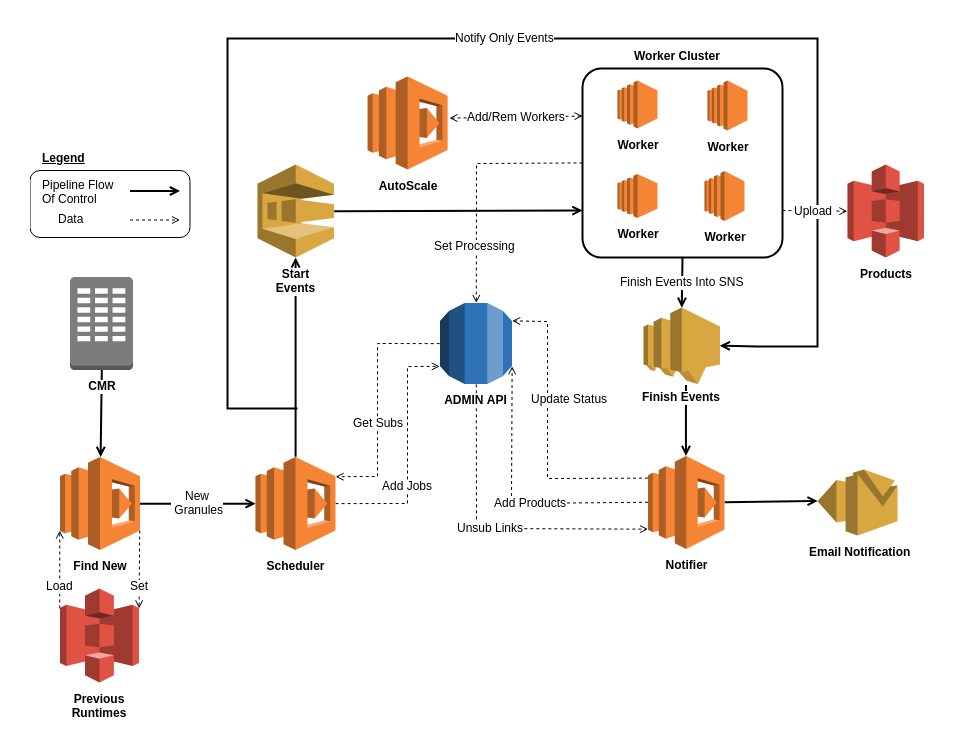
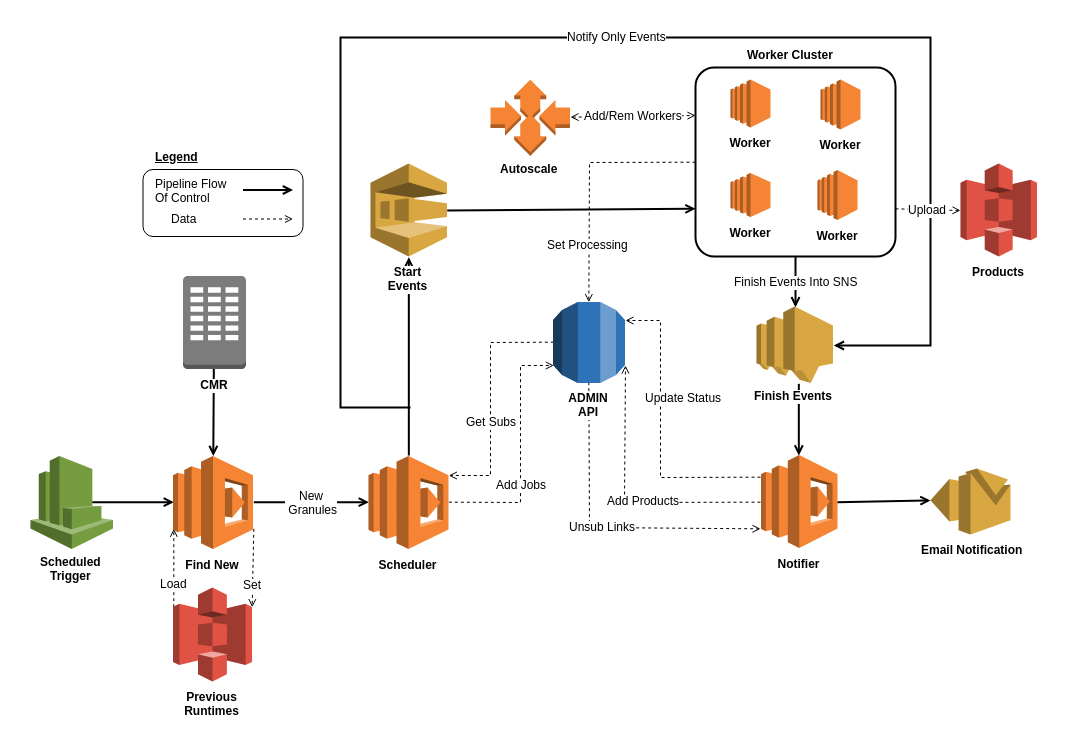
Fixing errors in docs build and updating diagrams

Changed region(s): [[0.0303, 0.0307, 0.9707, 0.984]]

diff --git a/docs/conf.py b/docs/conf.py
@@ -23,8 +23,8 @@ import sys
 sys.path.insert(0, os.path.abspath('../lambdas/find_new_granules/src'))
 sys.path.insert(0, os.path.abspath('../lambdas/scheduler/src'))
 sys.path.insert(0, os.path.abspath('../lambdas/send_email/src'))
-sys.path.insert(0, os.path.abspath('../lambdas/setup_db/src'))
 sys.path.insert(0, os.path.abspath('../lambdas'))
+sys.path.insert(0, os.path.abspath('../lambdas/setup_db/src'))
 sys.path.insert(0, os.path.abspath('../cloudformation/tropo'))
 sys.path.insert(0, os.path.abspath('..'))
 

diff --git a/lambdas/setup_db/src/lambda_function.py b/lambdas/setup_db/src/lambda_function.py
@@ -7,7 +7,7 @@
 import os
 
 from hyp3_db import Hyp3DB
-from setup_db import setup_db
+from init_db import setup_db
 
 
 def lambda_handler(aws_event, aws_context):

diff --git a/docs/_static/lambdas/send_email.rst b/docs/_static/lambdas/send_email.rst
@@ -1,7 +1,7 @@
 .. _send_email_lambda:
 
 Lambda: Send Email
-=========================
+==================
 
 .. image:: ../images/lambda.png
    :scale: 3 %
@@ -13,14 +13,8 @@ Entrypoint: Lambda Handler
 
 .. autofunction:: send_email.src.lambda_function.lambda_handler
 
-Module: Notify Only
-~~~~~~~~~~~~~~~~~~~
-
-.. automodule:: notify_only
-   :members:
-
 Module: Render Email
-~~~~~~~~~~~~~~~~~~~
+~~~~~~~~~~~~~~~~~~~~
 
 .. automodule:: render_email
   :members:

diff --git a/docs/_static/lambdas/setup_db.rst b/docs/_static/lambdas/setup_db.rst
@@ -1,7 +1,7 @@
 .. _setup_db_lambda:
 
 Lambda: Setup DB
-=========================
+================
 
 .. image:: ../images/lambda.png
    :scale: 3 %
@@ -14,7 +14,6 @@ Entrypoint: Lambda Handler
 .. autofunction:: setup_db.src.lambda_function.lambda_handler
 
 Module: Setup DB
-~~~~~~~~~~~~~~~~~~~
+~~~~~~~~~~~~~~~~
 
-.. automodule:: setup_db
-   :members:
+.. autofunction:: init_db.setup_db

diff --git a/docs/_static/cloudformation/scheduler.rst b/docs/_static/cloudformation/scheduler.rst
@@ -3,3 +3,9 @@ Template: Scheduler
 ===================
 
 .. automodule:: cloudformation.tropo.templates.hyp3_scheduler
+
+.. figure:: ../images/scheduler.png
+   :scale: 80 %
+   :alt: flowchart of the scheduler lambda
+
+   Diagram of the scheduler lambda and all of its surrounding infrastructure.

diff --git a/docs/_static/lambdas/scheduler.rst b/docs/_static/lambdas/scheduler.rst
@@ -29,5 +29,5 @@ Submodule: HyP3 Jobs
 Submodule: Environment
 ~~~~~~~~~~~~~~~~~~~~~~
 
-.. automodule:: schedule.environment
+.. automodule:: environment
    :members:
